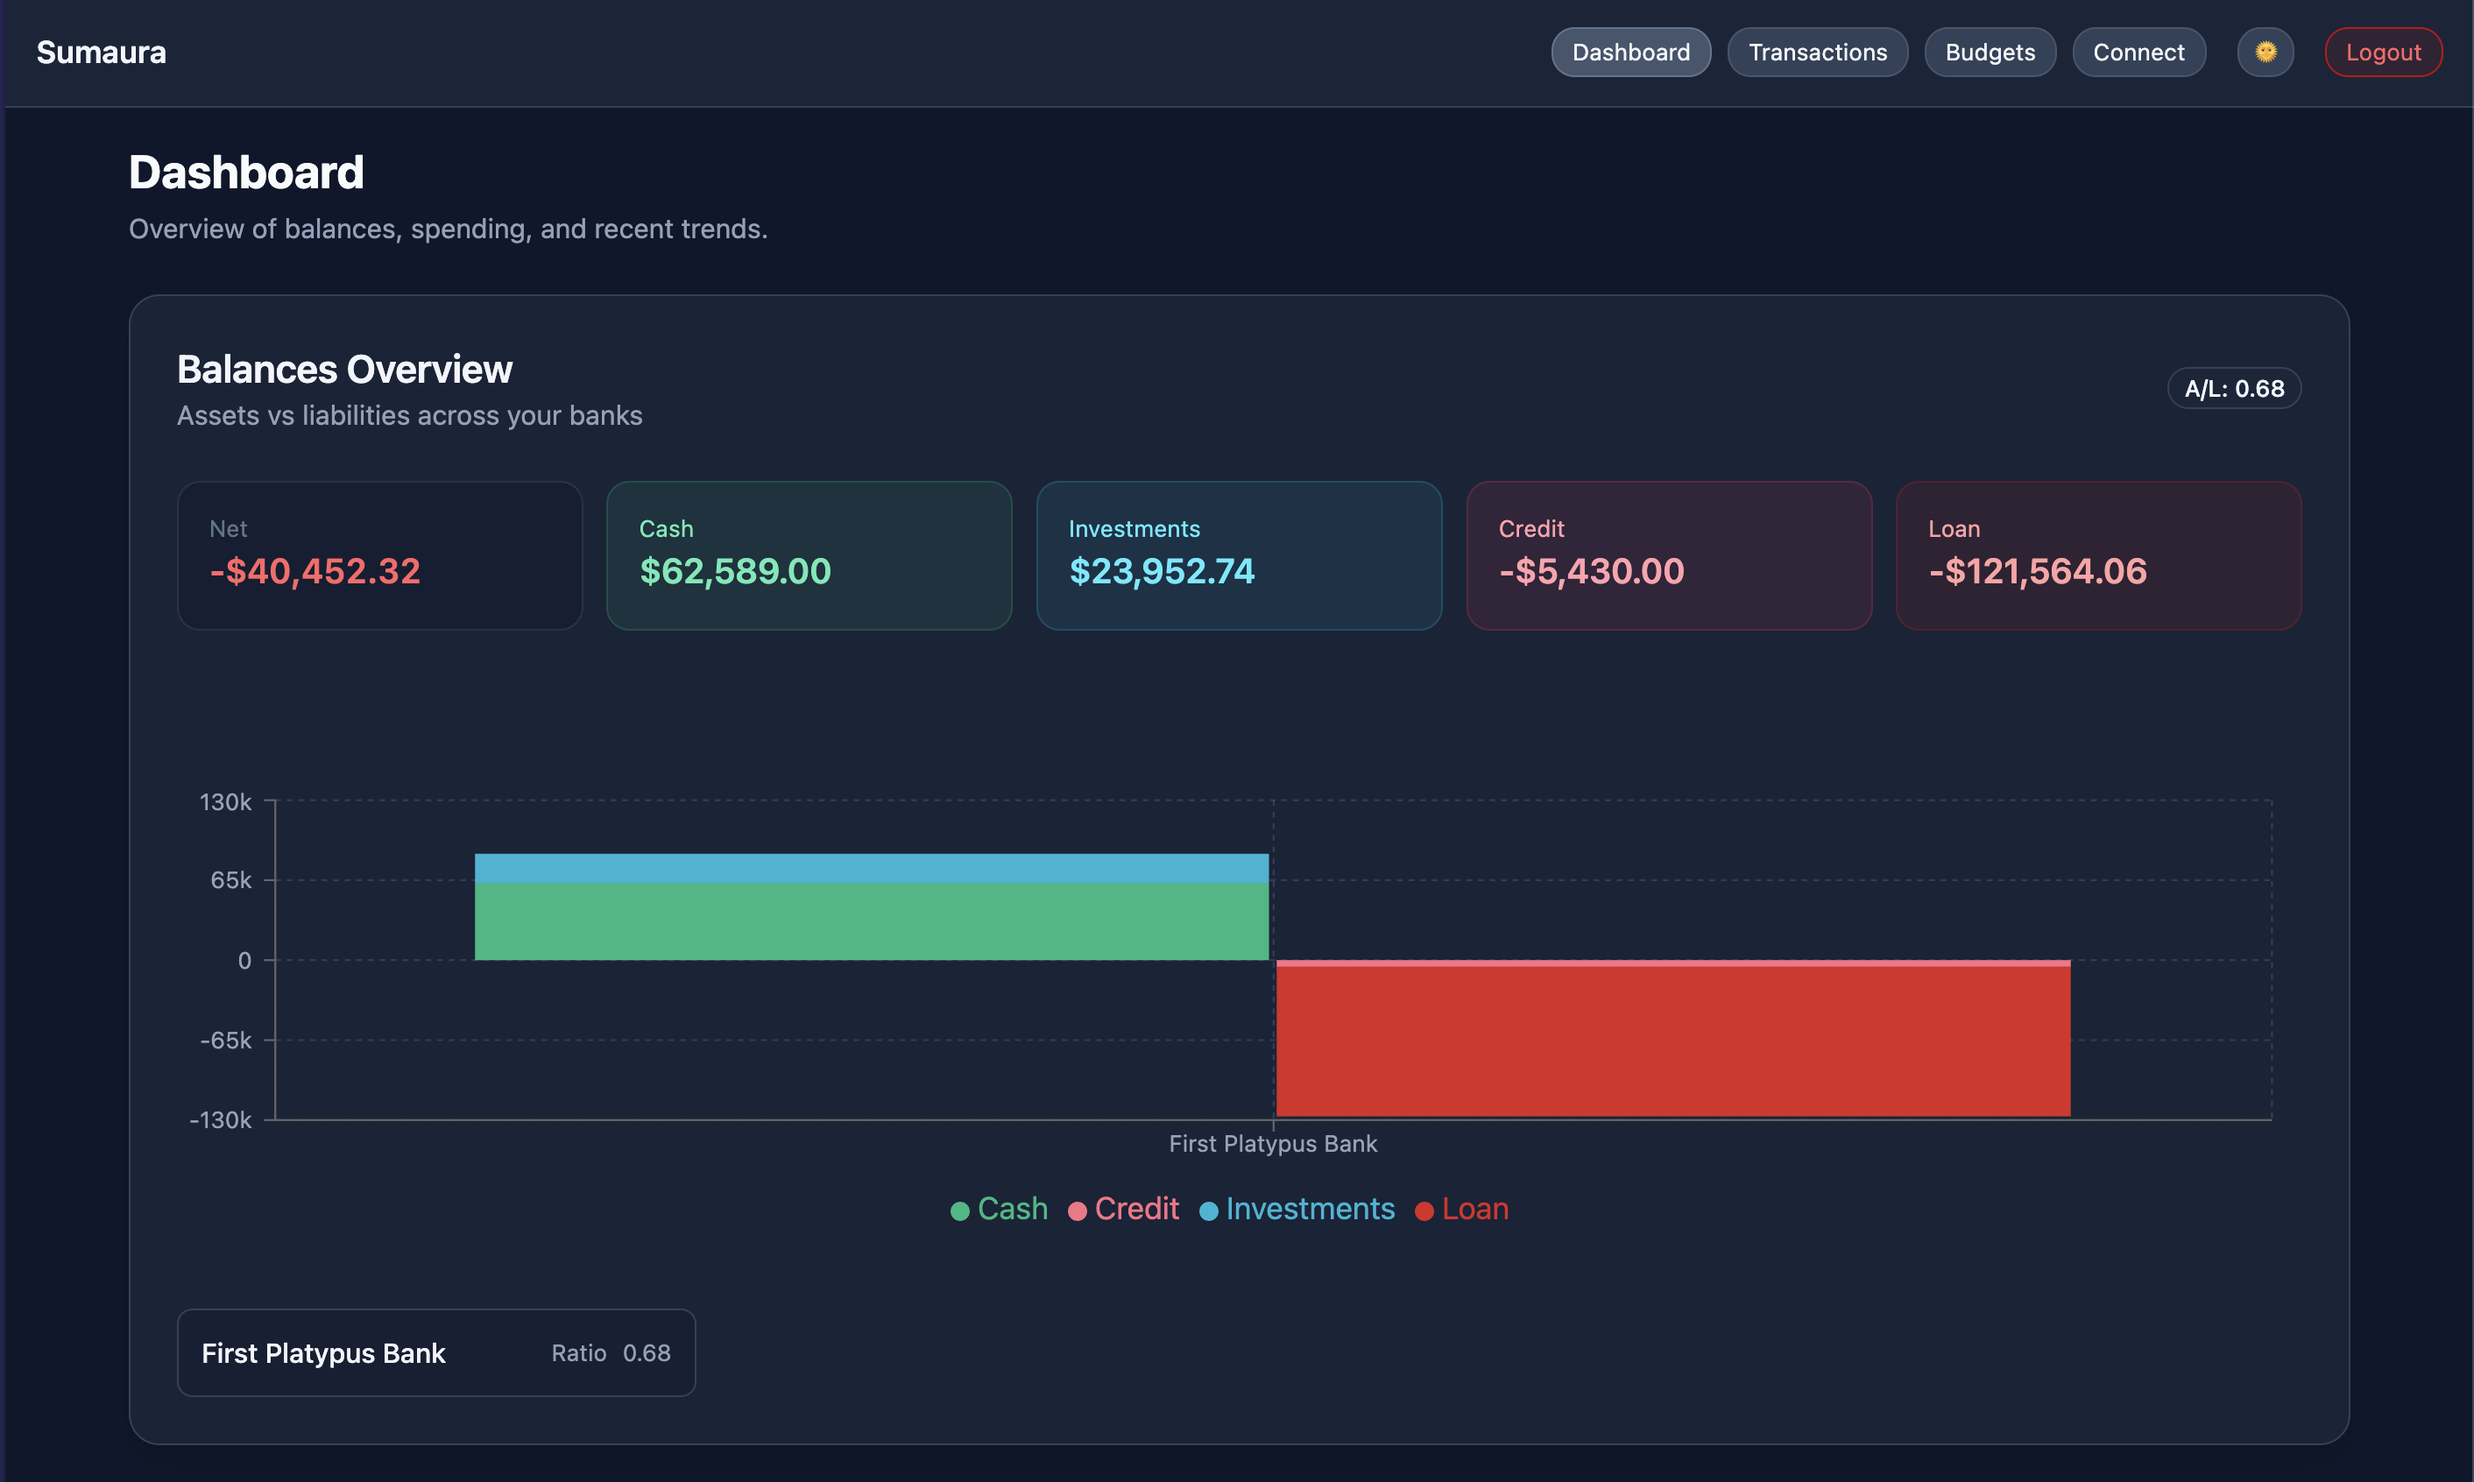
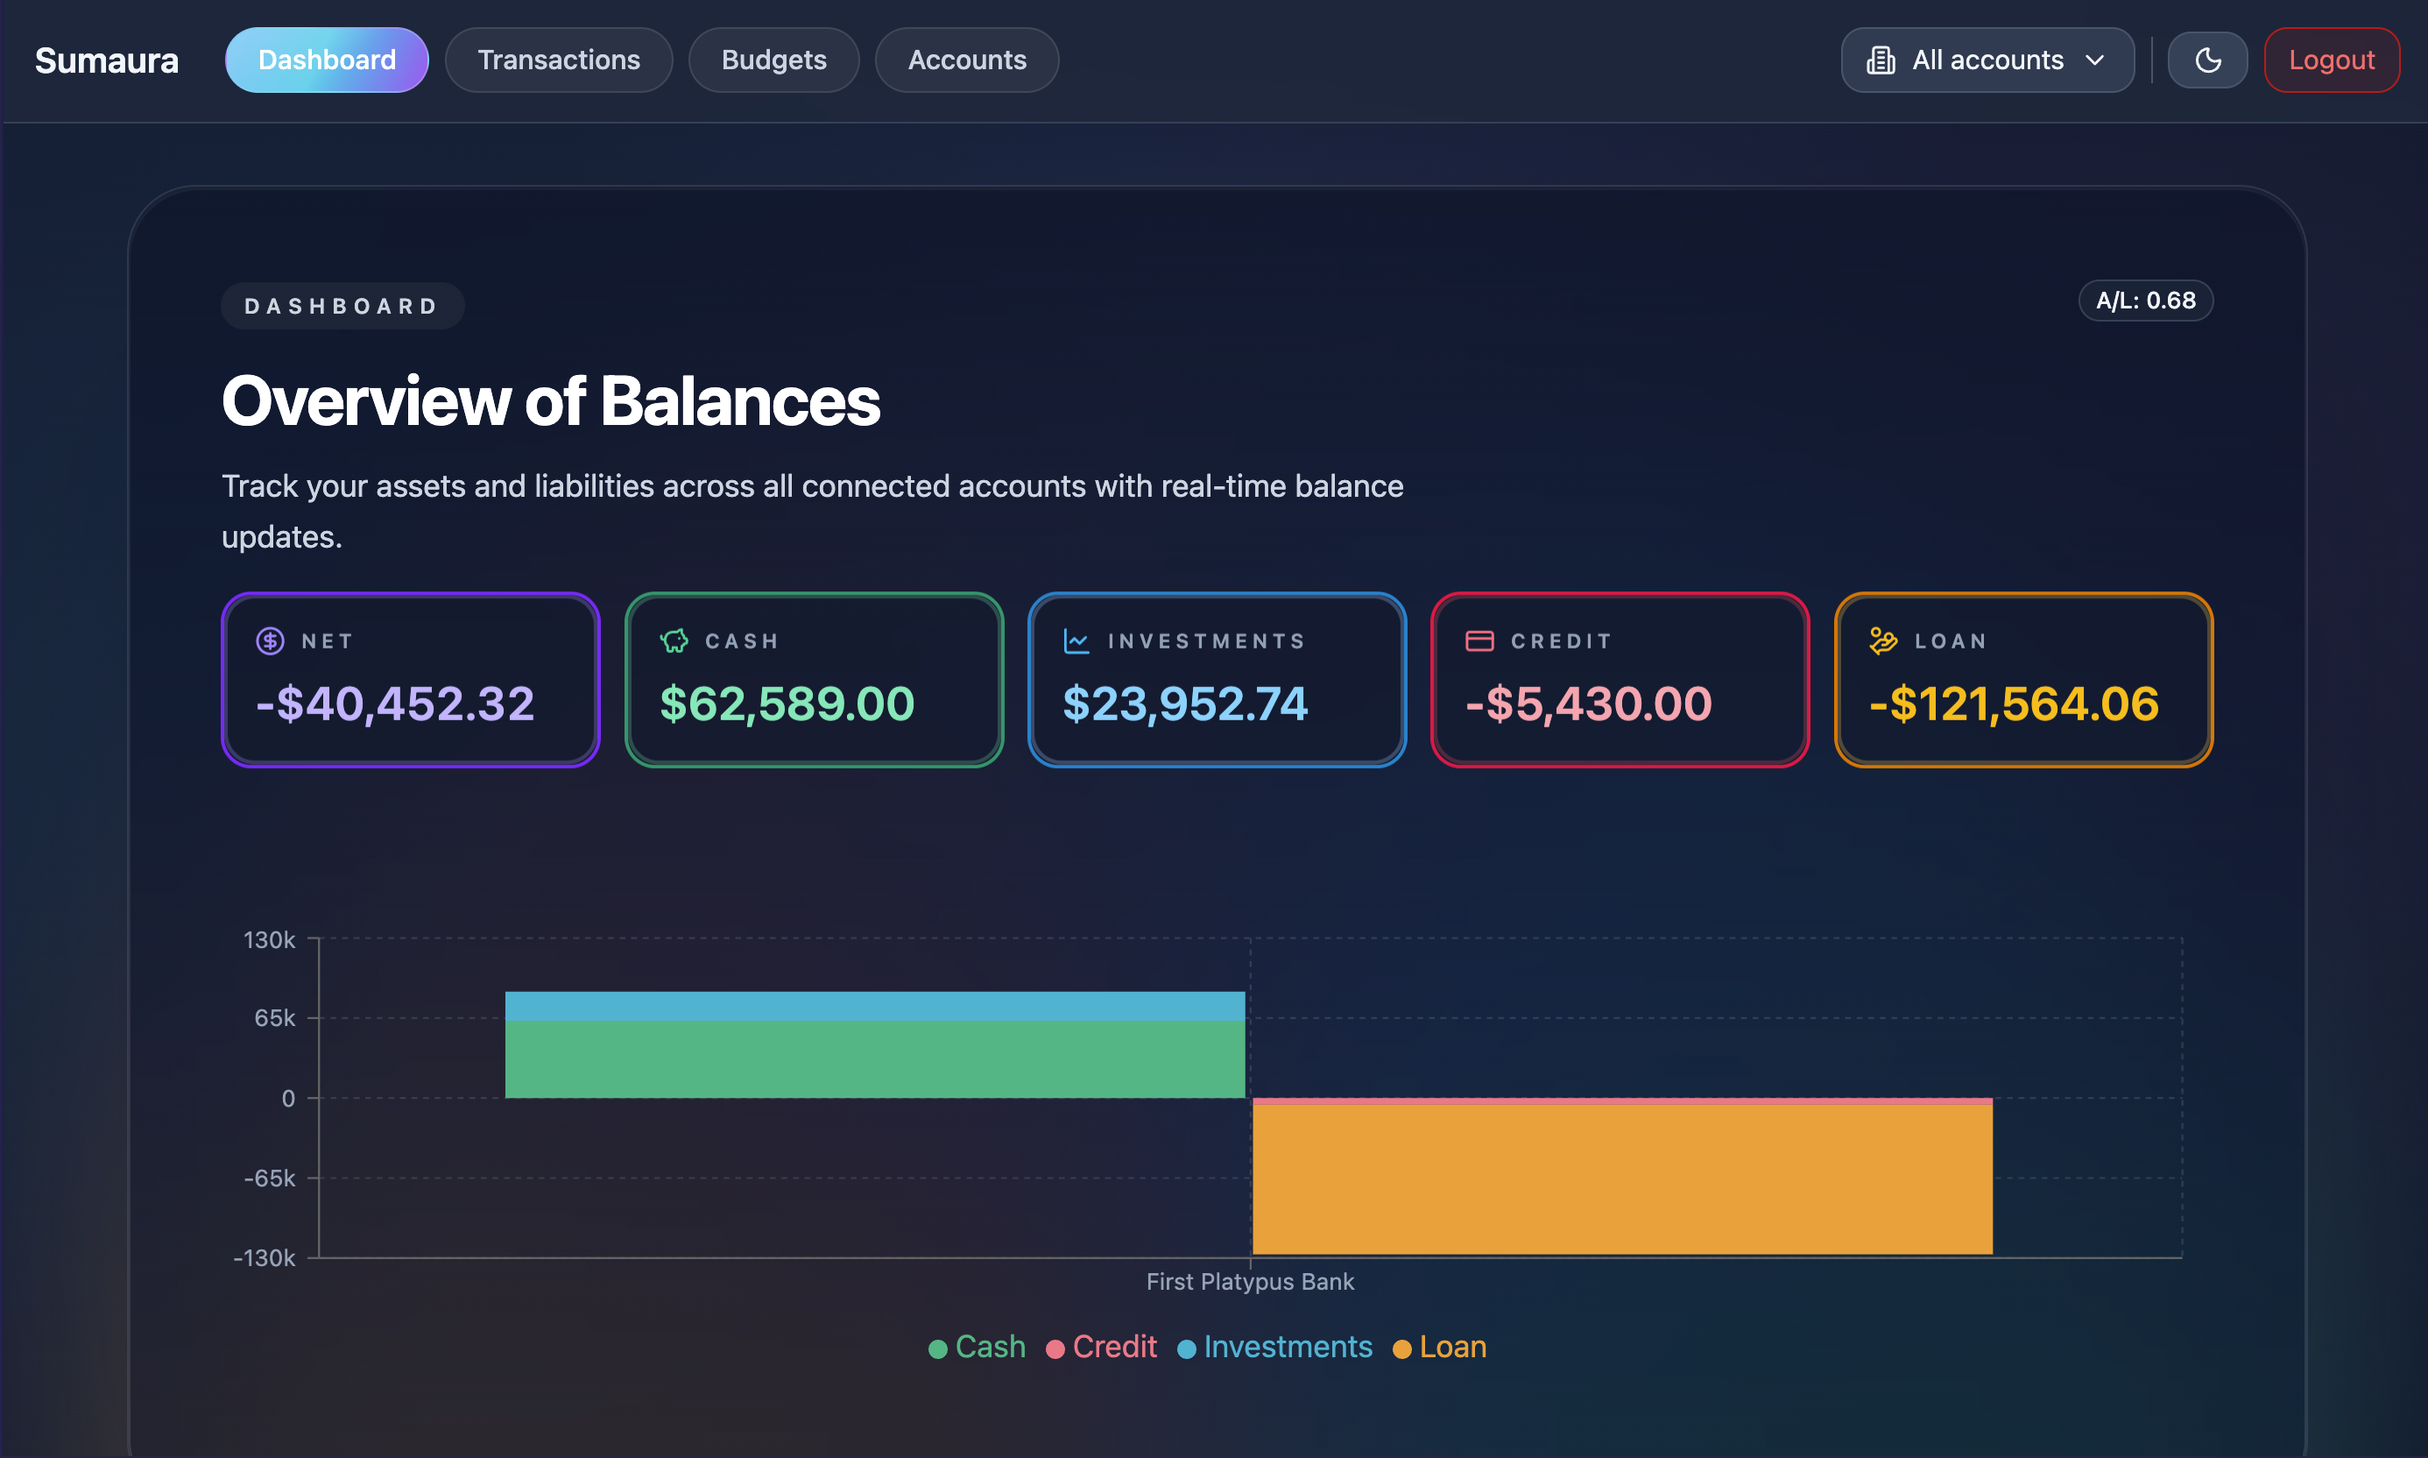
chore: Update doc images (#27)

diff --git a/README.md b/README.md
@@ -26,10 +26,10 @@ Create and adjust category budgets, monitor progress, and quickly spot overspend
 
 ![Budgets](docs/images/budgets.png)
 
-### Plaid Connection flow
+### Connect Accounts
 Secure bank account linking through Plaid with sandbox testing and on-demand transaction syncing.
 
-![Connect](docs/images/connect.png)
+![Accounts](docs/images/accounts.png)
 
 ## At a Glance
 Modern full-stack architecture with React frontend, Rust backend, PostgreSQL database, and Docker deployment.
